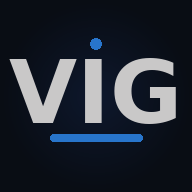
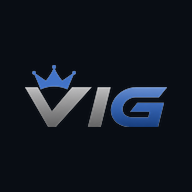
v1.6.7
My advice is leave it off a little longer. Your stored week is still last Tuesday's, so the moment you flip that flag the next page load will archive the current week and blank the bankroll to $1,000 — which would land in the middle of your cross-device test and Stewart's first session. Finish those, then turn it on.

Now the logo — it's sharp, and the crown resolves the thing the CSS mark never quite did.

Verified logo integration and planned visual testing procedures
Verified logo integration and planned visual testing procedures

The bankroll reset: not a bug. AUTO_ROLLOVER = false at line 168 — rollover is switched off for testing, and the week only advances when you roll it from the admin panel. The date maths is correct; today computes as 2026-08-04 exactly as it should. Leave the flag off until cross-device and Stewart are done, or the next page load will archive your current week mid-test.

The logo: in, at v1.6.7.

I knocked the black field out to transparency so it sits on the app's navy instead of punching a black rectangle into the header. The full lockup with the tagline rule runs on desktop; below 760px it drops to crown-and-wordmark only, since that rule is illegible at phone width and the header row is already tight.

Also applied to the sign-in card, and I regenerated the favicon, Apple touch icon, and both PWA install icons from the new mark — so your installed home-screen copy updates too.
[…]

Changed region(s): [[0.0312, 0.1875, 0.9375, 0.75]]

diff --git a/index.html b/index.html
@@ -20,13 +20,9 @@
 <body>
 <header class="topbar">
   <div class="brand-wrap" id="brandHome" role="button" tabindex="0" aria-label="VIG home">
-    <div class="logo" aria-label="VIG logo"><span class="logo-v">V</span><span class="logo-cut"></span></div>
-    <div class="lockup">
-      <div class="wordmark">V<span class="wm-i"><i class="wm-dot"></i>I</span>G</div>
-      <div class="lockup-rules"><span></span><b>MOCK SPORTS BOOK</b><span></span></div>
-      <div class="lockup-sub">FANTASY TOOLS</div>
-      <span class="brand-sr">VIG — Mock sports book. Fantasy tools.</span>
-    </div>
+    <img class="brand-logo" src="assets/vig-lockup.png" alt="" width="840" height="527" decoding="async">
+    <img class="brand-logo-compact" src="assets/vig-mark.png" alt="" width="420" height="185" decoding="async">
+    <span class="brand-sr">VIG — Mock sports book. Fantasy tools.</span>
   </div>
   <nav>
     <button class="nav-btn active" data-view="home">Home</button>
@@ -179,8 +175,7 @@
 <div class="identity-gate" id="identityGate">
   <div class="identity-card">
     <button class="auth-close" id="authCloseBtn" aria-label="Close">×</button>
-    <div class="auth-brand"><div class="logo small"><span class="logo-v">V</span><span class="logo-cut"></span></div>
-      <div><strong>VIG</strong><span>Mock Sports Book · Fantasy Tools</span></div></div>
+    <div class="auth-brand"><img class="auth-logo" src="assets/vig-mark.png" alt="VIG" width="420" height="185" decoding="async"></div>
     <p class="auth-reason" id="authReason" hidden></p>
     <div id="authBody"></div>
   </div>

diff --git a/styles.css b/styles.css
@@ -792,3 +792,20 @@ button,select,input,a{touch-action:manipulation}
 /* v1.6.5 — a losing ticket shows what it would have paid, because the
    projection is no longer destroyed at settlement */
 .would-have-paid{display:block;margin-top:4px;color:var(--muted);font-size:10px;font-weight:600;opacity:.85}
+
+/* ---- v1.6.7 brand mark -------------------------------------------------
+   Replaces the CSS-drawn V with the real logo. The full lockup carries the
+   tagline; below 760px only the crown and wordmark survive, because the
+   tagline is unreadable at phone scale and the row is tight already. */
+.brand-logo,.brand-logo-compact{display:block;width:auto;object-fit:contain}
+.brand-logo{height:46px}
+.brand-logo-compact{display:none;height:32px}
+.brand-wrap{cursor:pointer;gap:0}
+.brand-wrap:focus-visible{outline:2px solid var(--green);outline-offset:6px;border-radius:12px}
+.auth-brand{justify-content:center}
+.auth-logo{height:54px;width:auto;display:block;margin:0 auto}
+@media(max-width:760px){
+  .brand-logo{display:none}
+  .brand-logo-compact{display:block}
+}
+@media(max-width:420px){.brand-logo-compact{height:27px}}

diff --git a/service-worker.js b/service-worker.js
@@ -14,7 +14,7 @@
      icons, manifest, data-> cache first, refreshed in the background
      /api/*               -> never cached, it is live odds
 --------------------------------------------------------------- */
-const VERSION = 'v1.6.6';
+const VERSION = 'v1.6.7';
 const SHELL = `vig-shell-${VERSION}`;
 const ASSETS = `vig-assets-${VERSION}`;
 
@@ -24,7 +24,8 @@ const PRECACHE = [
   './manifest.webmanifest',
   './data/fantasy-2025.json', './data/golf-event.json', './data/nfl-2026-week1.json',
   './icons/icon-192.png', './icons/icon-512.png',
-  './icons/apple-touch-icon.png', './icons/favicon-32.png'
+  './icons/apple-touch-icon.png', './icons/favicon-32.png',
+  './assets/vig-lockup.png', './assets/vig-mark.png'
 ];
 
 self.addEventListener('install', event => {

diff --git a/app.js b/app.js
@@ -6,7 +6,7 @@
 
 /* Build stamp. Every "is this device on the new code?" question has cost a
    round trip; now it is on screen. Bumped with the service worker cache. */
-const VIG_BUILD = 'v1.6.6';
+const VIG_BUILD = 'v1.6.7';
 
 /* ---------- 0. Persistence ---------- */
 const KEYS = {

diff --git a/CHANGELOG.md b/CHANGELOG.md
@@ -108,6 +108,30 @@ Three ways to close it:
 
 ---
 
+## v1.6.7 — Real brand mark
+
+**Changed**
+
+- The CSS-drawn `V` and the text lockup in the header are replaced by the
+  actual logo: crown, wordmark, and the *Mock Sportsbook & Fantasy Tools* rule.
+  The black field is knocked out to alpha, so the mark sits on the app's navy
+  rather than punching a black rectangle into it.
+- Below 760px the tagline is dropped and only the crown and wordmark show — the
+  rule is unreadable at phone scale and the header row is tight already.
+- The sign-in card uses the mark, centred.
+- Favicon, Apple touch icon, and both PWA install icons regenerated from the new
+  mark on the brand navy. Installed home-screen copies will pick these up.
+
+**Notes**
+
+- Assets are quantized and sized to 3x their largest display size: 68 KB for the
+  lockup, 23 KB for the mark. Both are precached by the service worker.
+- The preview build now inlines images as data URIs so the single file still
+  renders standalone.
+- No change to application logic. 100 assertions still green.
+
+---
+
 ## v1.6.6 — The outbox could hold a ticket forever
 
 **Fixed**
